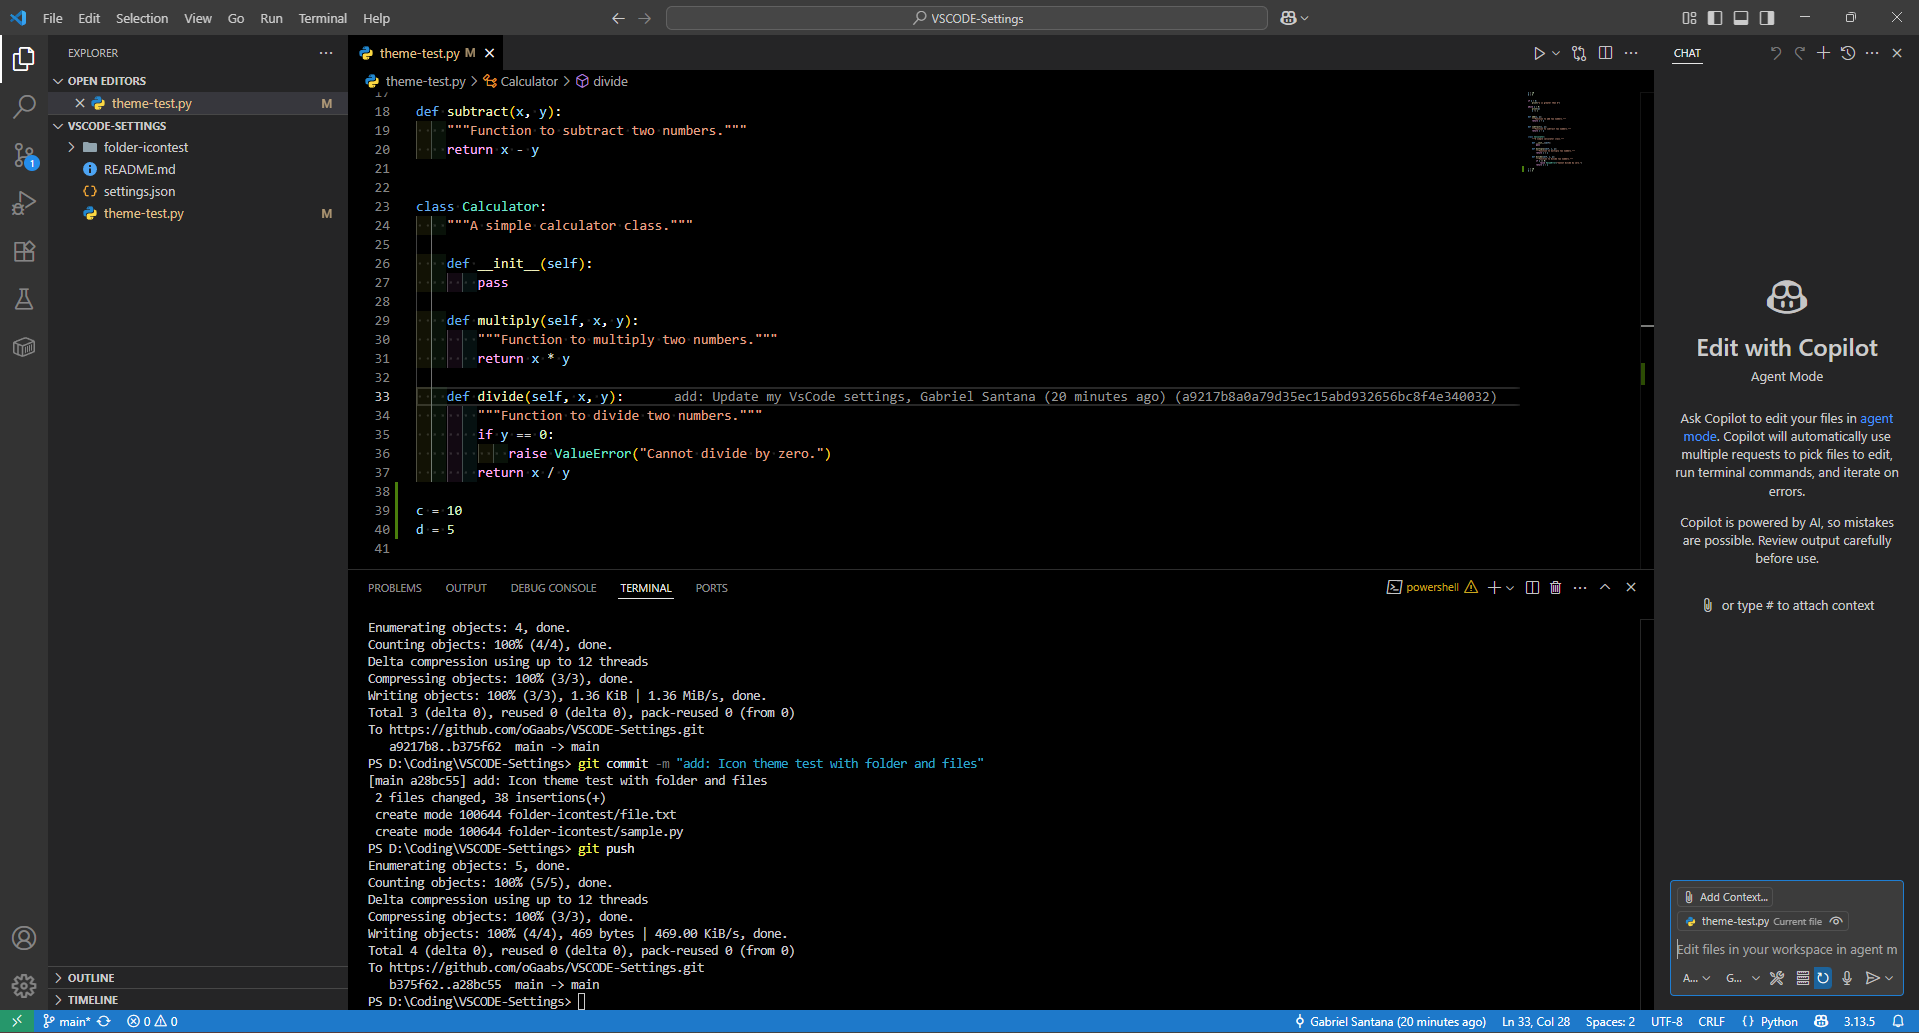
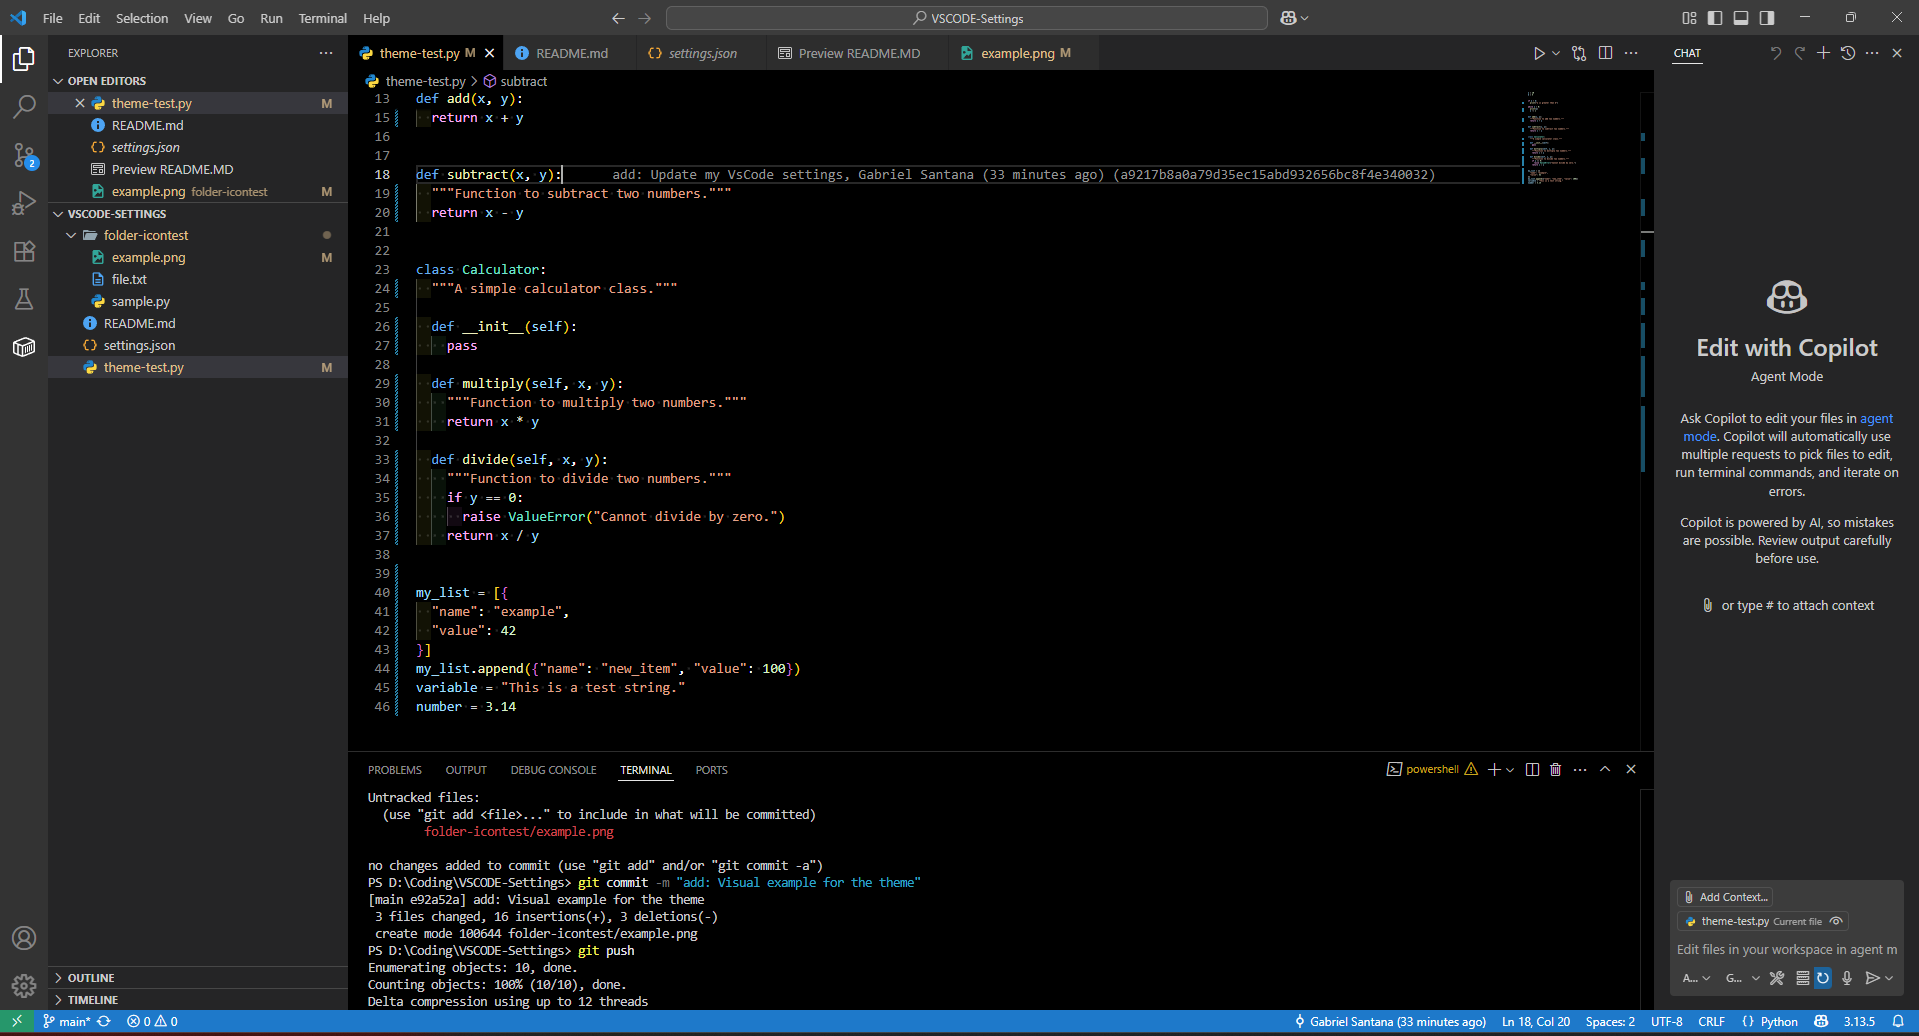
add: update example image

diff --git a/theme-test.py b/theme-test.py
@@ -3,38 +3,44 @@ b = 5
 
 
 if a > b:
-    print("a is greater than b")
+  print("a is greater than b")
 
 while a > 0:
-    print(a)
-    a -= 1
+  print(a)
+  a -= 1
 
 
 def add(x, y):
-    """Function to add two numbers."""
-    return x + y
+  """Function to add two numbers."""
+  return x + y
 
 
 def subtract(x, y):
-    """Function to subtract two numbers."""
-    return x - y
+  """Function to subtract two numbers."""
+  return x - y
 
 
 class Calculator:
-    """A simple calculator class."""
+  """A simple calculator class."""
 
-    def __init__(self):
-        pass
+  def __init__(self):
+    pass
 
-    def multiply(self, x, y):
-        """Function to multiply two numbers."""
-        return x * y
+  def multiply(self, x, y):
+    """Function to multiply two numbers."""
+    return x * y
 
-    def divide(self, x, y):
-        """Function to divide two numbers."""
-        if y == 0:
-            raise ValueError("Cannot divide by zero.")
-        return x / y
+  def divide(self, x, y):
+    """Function to divide two numbers."""
+    if y == 0:
+      raise ValueError("Cannot divide by zero.")
+    return x / y
 
-c = 10
-d = 5
+
+my_list = [{
+    "name": "example",
+    "value": 42
+}]
+my_list.append({"name": "new_item", "value": 100})
+variable = "This is a test string."
+number = 3.14
